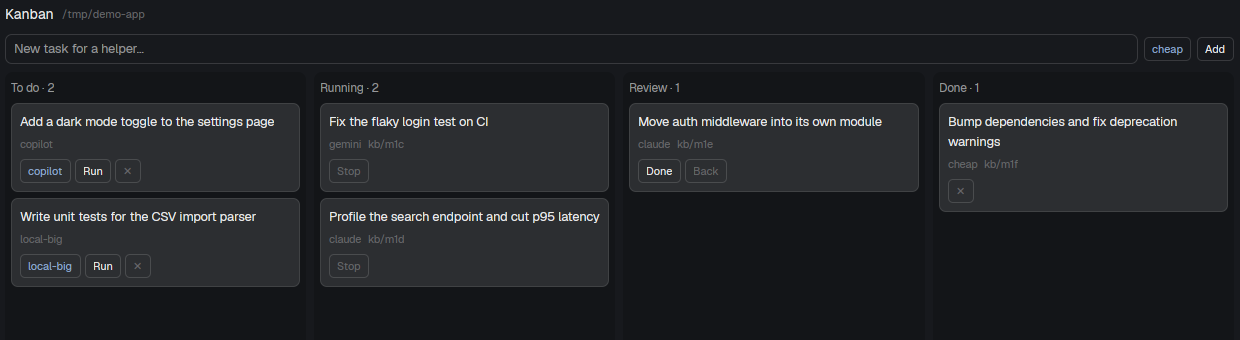
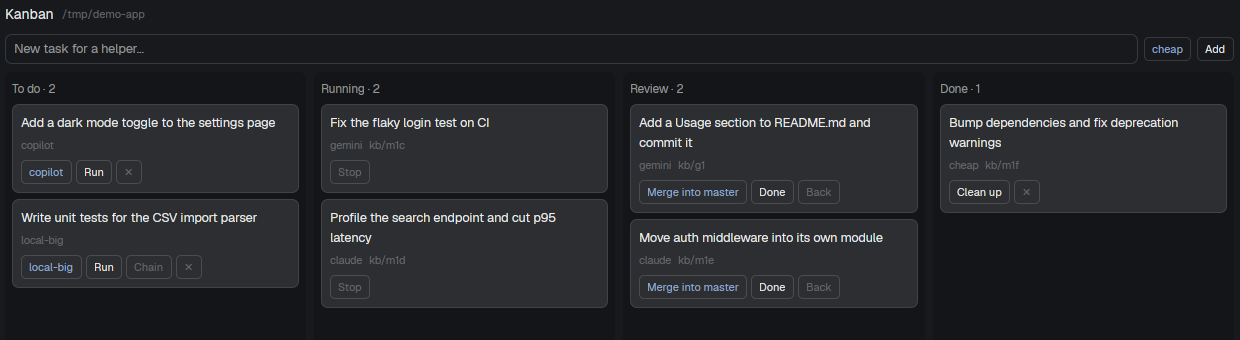
Explain failed merges and check for a git identity first; update preview

diff --git a/mods/kanban/main.js b/mods/kanban/main.js
@@ -5,7 +5,7 @@
 import { View, div } from "gpui-kit";
 import { v_flex, h_flex, InputState, Input } from "gpui-base";
 import { exec, hc, home, props, focused, spaces, terminals, settings, run, theme, readTextFile, writeTextFile, notify, checking, nextCommand } from "herdr";
-import { COLUMNS, helperName, branchName, parseCards, mergeCards, waitingOn, isReady, columnFor, nextOf, dropAction, applyDrop } from "./logic.js";
+import { COLUMNS, helperName, branchName, parseCards, mergeCards, waitingOn, isReady, columnFor, nextOf, dropAction, applyDrop, mergeFailure } from "./logic.js";
 
 export default class Kanban extends View {
   init(_props, cx) {
@@ -220,10 +220,13 @@ export default class Kanban extends View {
       const opts = { cwd: this.root };
       const dirty = await exec("git", ["status", "--porcelain", "--untracked-files=no"], opts);
       if (dirty.stdout.trim()) return `Not merging: ${this.base} has uncommitted changes. Commit or stash them first.`;
+      // --no-ff makes a merge commit, which needs a committer.
+      const who = await exec("git", ["config", "user.email"], opts);
+      if (!who.stdout.trim()) return `Not merging: git has no user.email in ${this.root}, and the merge commit needs one. Run: git config --global user.name "Your Name" && git config --global user.email you@example.com`;
       const m = await exec("git", ["merge", "--no-ff", "--no-edit", branchName(id)], opts);
       if (m.code !== 0) {
         await exec("git", ["merge", "--abort"], opts);
-        return `Merge of ${branchName(id)} stopped (conflict?), nothing changed: ${(m.stderr || m.stdout).trim().split("\n").pop()}`;
+        return mergeFailure(`${m.stdout}\n${m.stderr}`, branchName(id));
       }
       this.stop(id);
       const c = this.card(id);

diff --git a/test/logic.test.js b/test/logic.test.js
@@ -1,6 +1,6 @@
 import { test } from "node:test";
 import assert from "node:assert/strict";
-import { parseCards, mergeCards, waitingOn, isReady, columnFor, nextOf, dropAction, applyDrop } from "../mods/kanban/logic.js";
+import { parseCards, mergeCards, waitingOn, isReady, columnFor, nextOf, dropAction, applyDrop, mergeFailure } from "../mods/kanban/logic.js";
 
 const card = (id, status = "todo", extra = {}) => ({ id, task: `t ${id}`, template: "gemini", status, ...extra });
 
@@ -98,4 +98,12 @@ test("applyDrop moves Review back to To do at the drop point, and refuses Runnin
   const refused = applyDrop(cards, "w", "done", null);
   assert.equal(refused.cards, cards);
   assert.equal(refused.result.ok, false);
+});
+
+test("mergeFailure names conflicts and git's own reason", () => {
+  assert.match(mergeFailure("Auto-merging a.txt\nCONFLICT (content): Merge conflict in a.txt\n", "kb/a"), /kb\/a conflicts/);
+  assert.equal(
+    mergeFailure("\n*** Please tell me who you are.\n\nfatal: unable to auto-detect email address (got 'x@y.(none)')\n", "kb/a"),
+    "Merge of kb/a failed, nothing changed: unable to auto-detect email address (got 'x@y.(none)')");
+  assert.equal(mergeFailure("", "kb/a"), "Merge of kb/a failed, nothing changed: git gave no reason");
 });

diff --git a/mods/kanban/logic.js b/mods/kanban/logic.js
@@ -96,3 +96,11 @@ export function applyDrop(cards, id, to, beforeId) {
   }
   return { cards: next, result };
 }
+
+// A person-readable reason from a failed `git merge` (after it was aborted).
+export function mergeFailure(output, branch) {
+  if (/CONFLICT/.test(output)) return `${branch} conflicts with your branch, so the merge was aborted and nothing changed. Merge it by hand to resolve.`;
+  const lines = output.trim().split("\n").map((l) => l.trim()).filter(Boolean);
+  const why = lines.find((l) => /^(fatal|error):/.test(l)) ?? lines.at(-1) ?? "git gave no reason";
+  return `Merge of ${branch} failed, nothing changed: ${why.replace(/^(fatal|error):\s*/, "")}`;
+}
